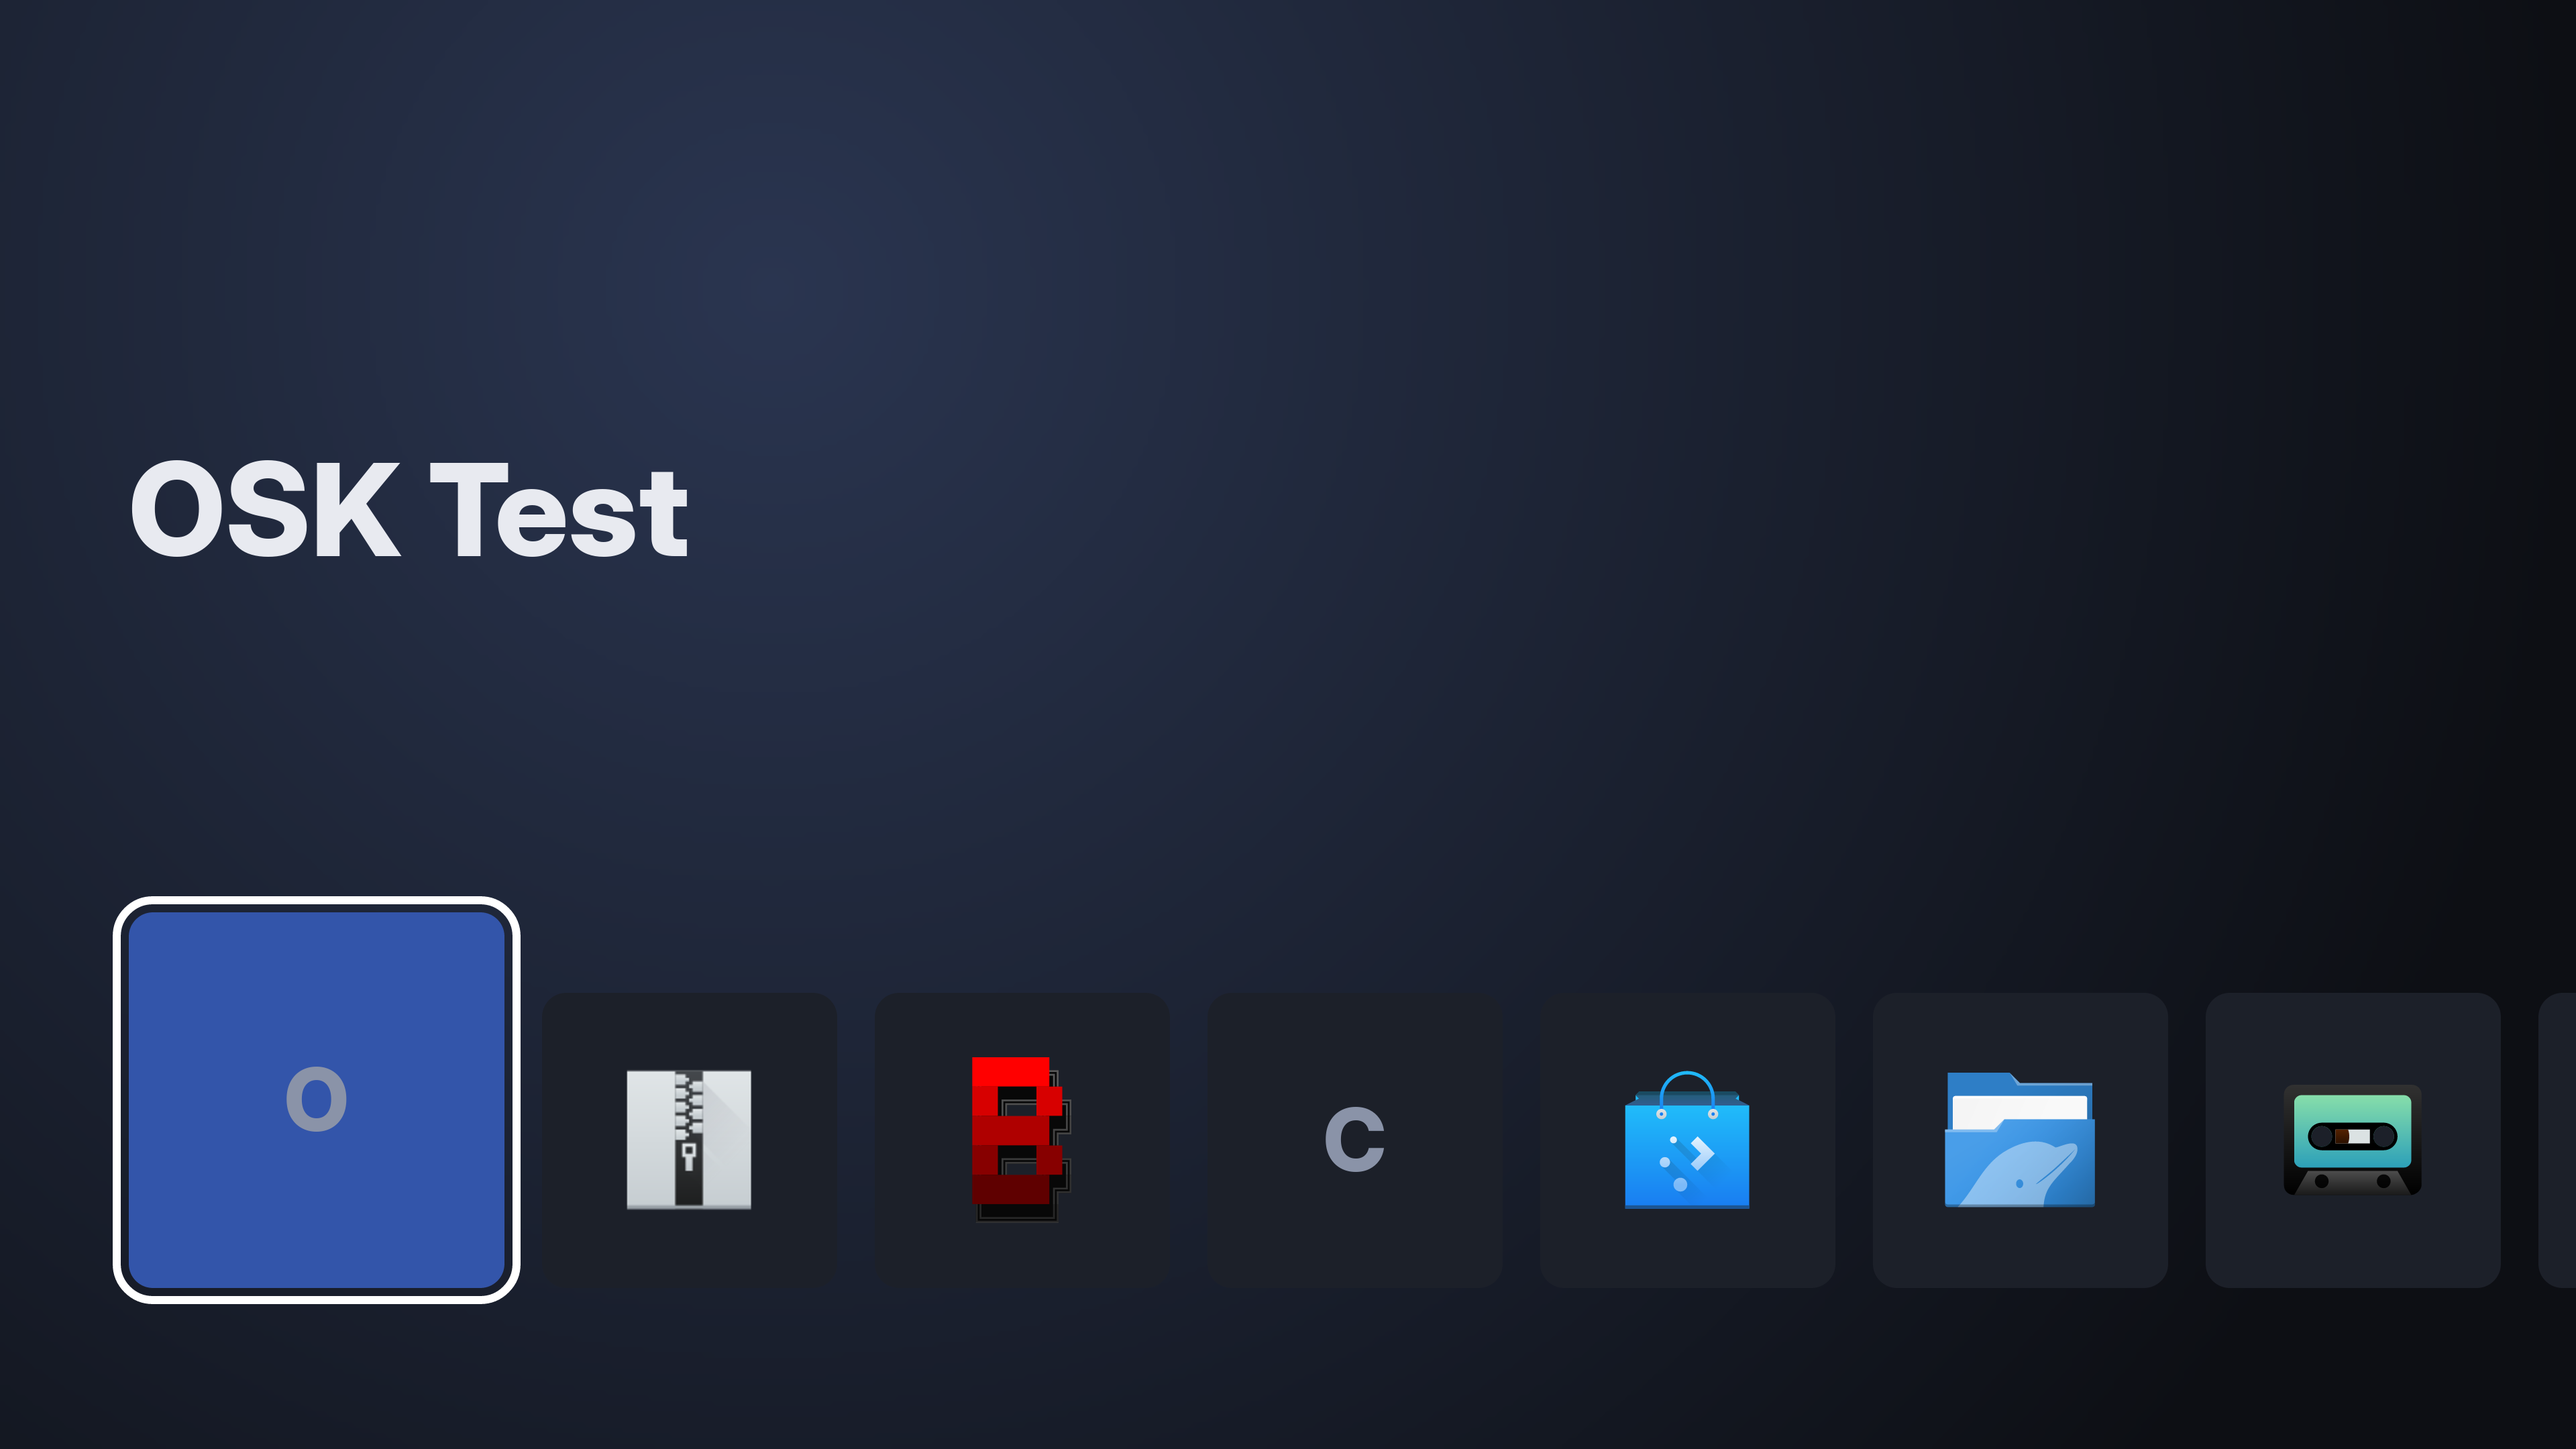
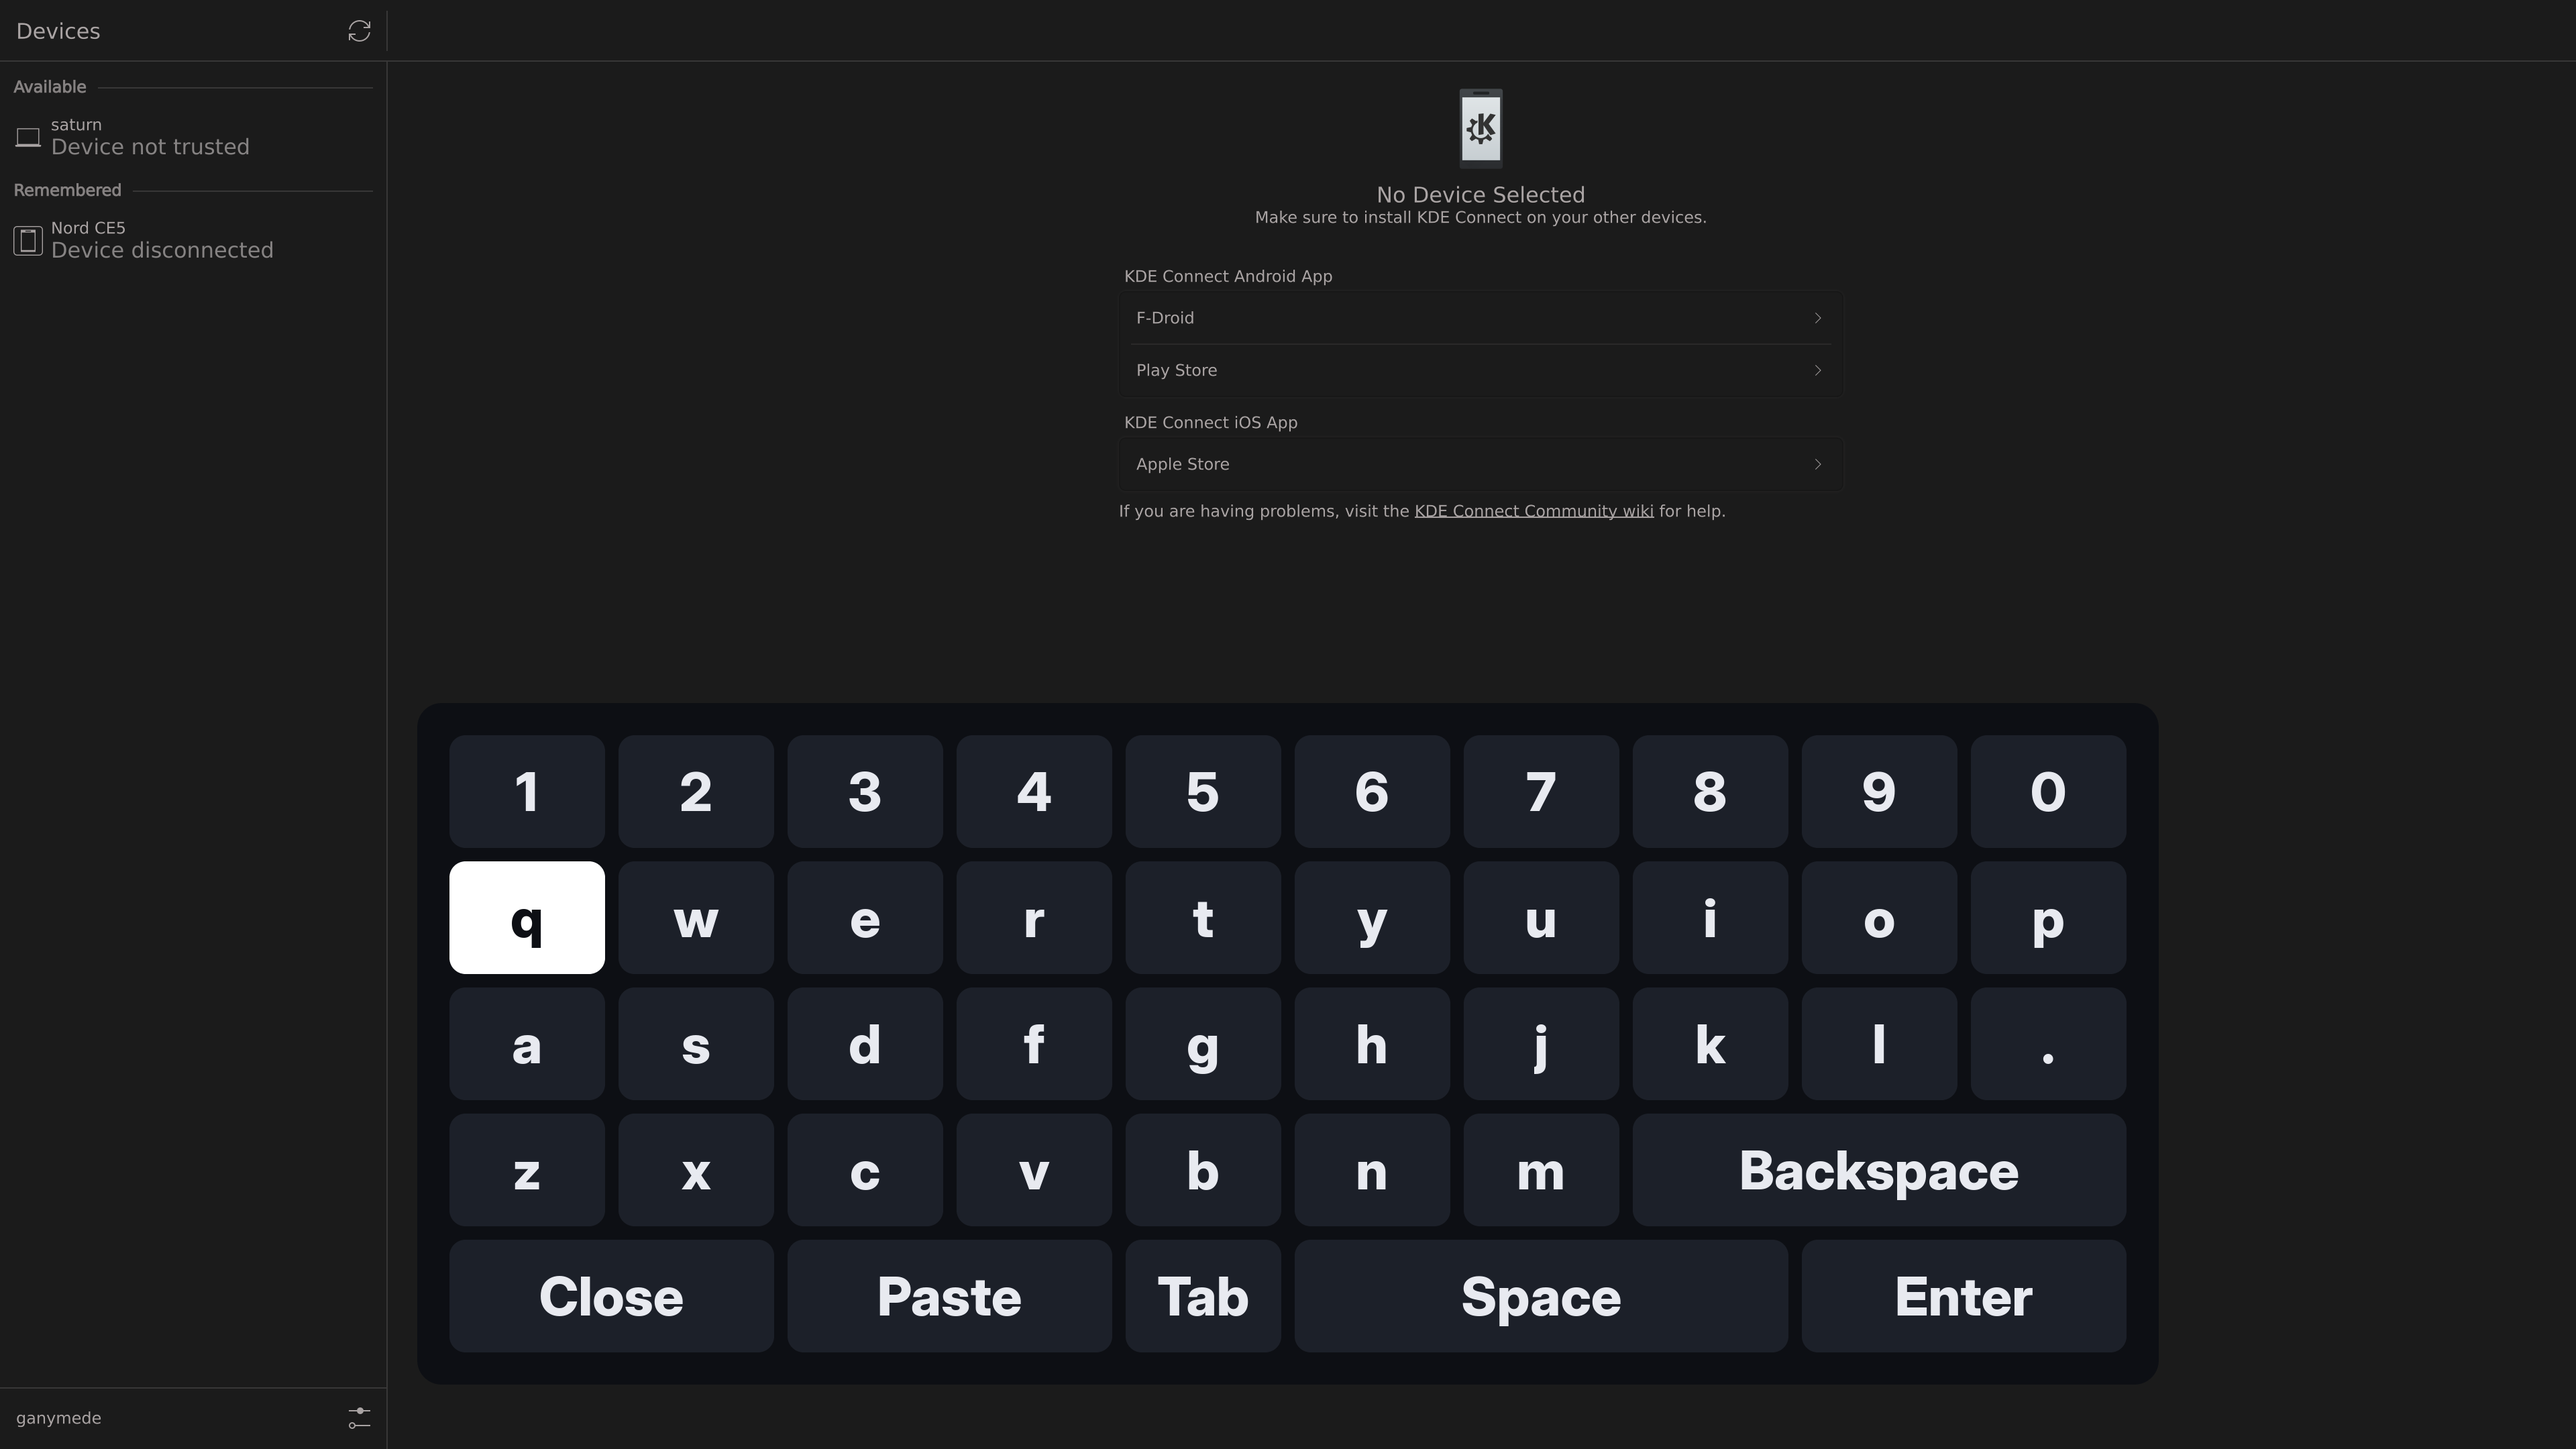
README: keyboard screenshot with the Paste key

diff --git a/README.md b/README.md
@@ -102,7 +102,7 @@ What it does today:
   Backspace. Menu again, or its Close key, closes it; Steam still goes Home.
   While it is open, nothing else on the controller reaches the app, and
   the trackpads do nothing. It opens with the focus on q.
-  ![The on-screen keyboard over a web app](docs/screenshots/keyboard.png)
+  ![The on-screen keyboard over KDE Connect](docs/screenshots/keyboard.png)
 - Blanks the screen (DPMS off) after `idle_timeout` with no activity, 10
   minutes unless configured. The TV shows No Signal and may power itself
   down. Activity is a controller button, a stick past a quarter of its
